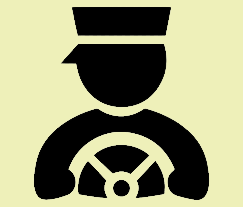
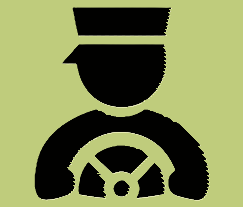
changed image backgrounds

diff --git a/home/cards.php b/home/cards.php
@@ -31,6 +31,7 @@ body{
   width: 100%;
   border-top-right-radius: 5px;
   border-top-left-radius: 5px;
+  
  }
 
  .imaged img{
@@ -38,6 +39,7 @@ body{
   height : 208px;
   border-top-right-radius: 5px;
   border-top-left-radius: 5px;
+  background color:#BFCC7C;
  }
 
 .title{
